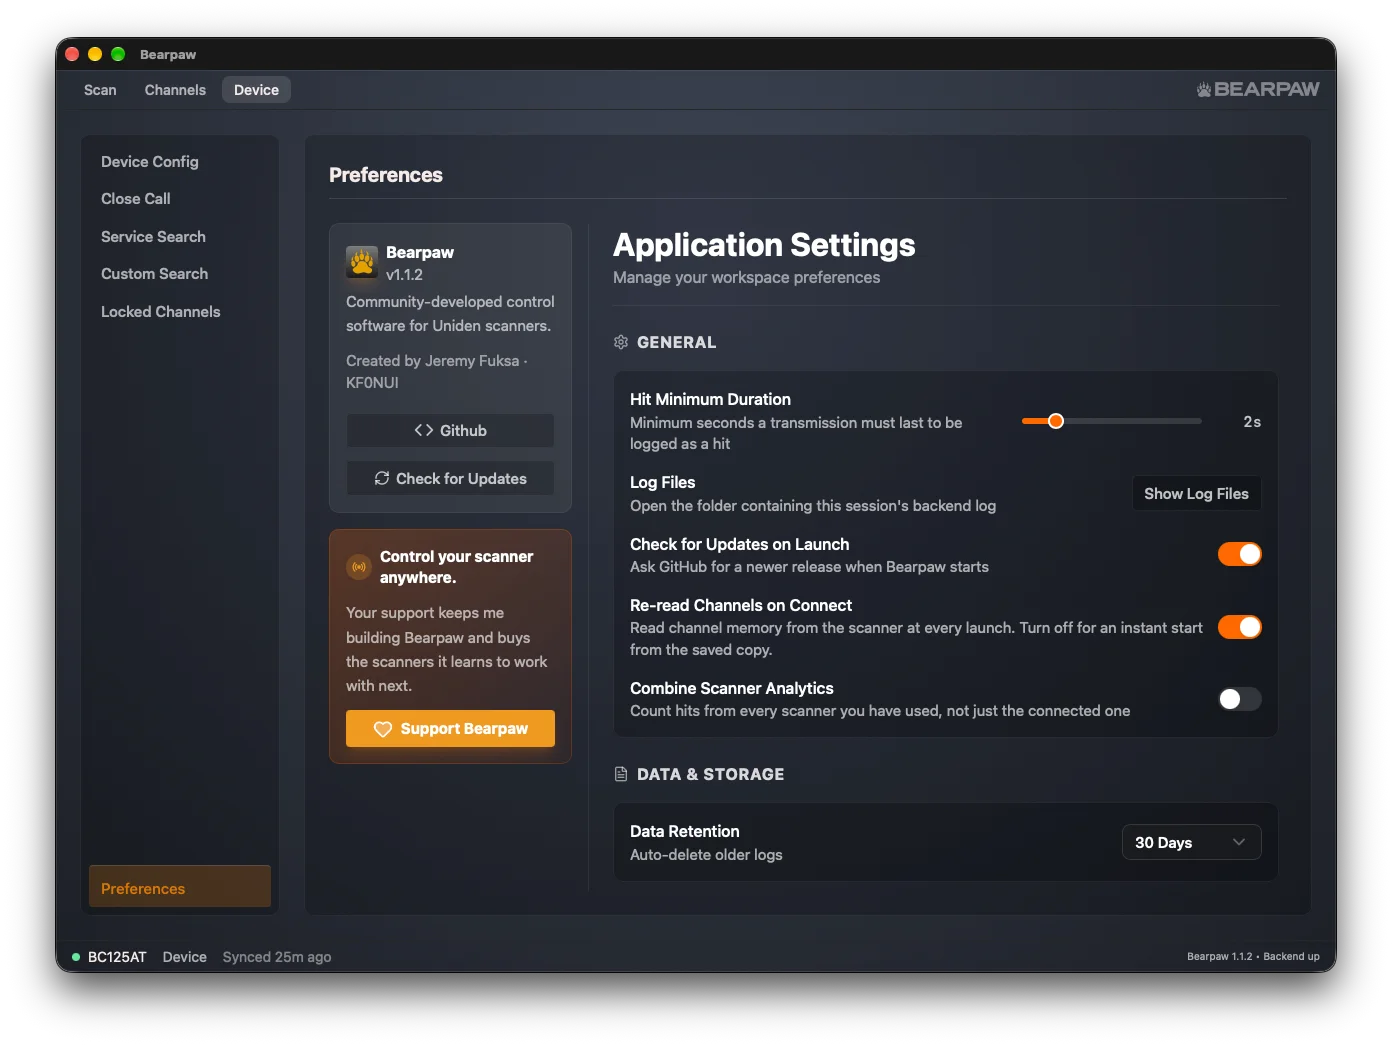
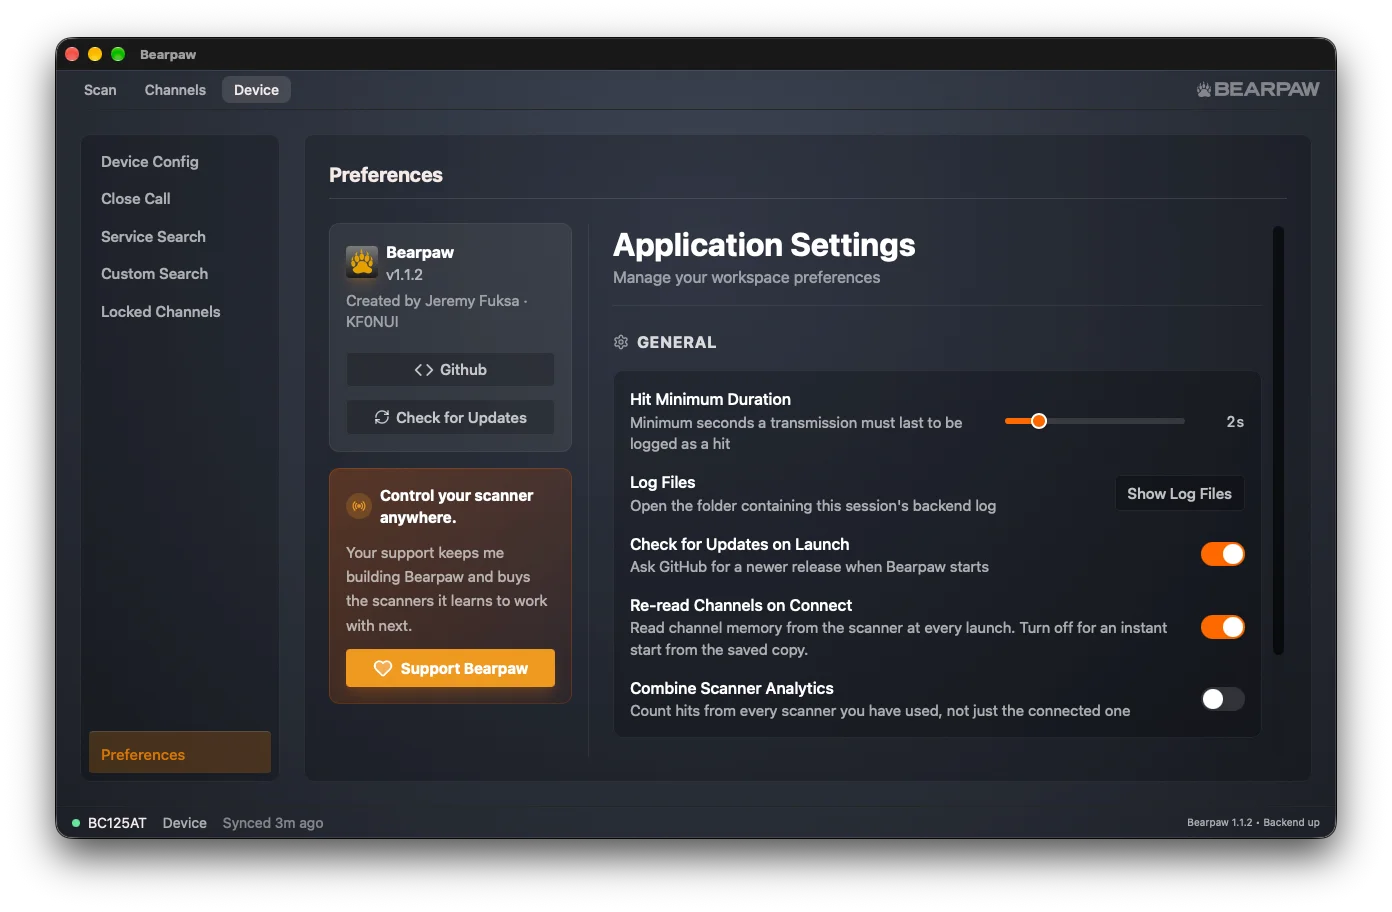
docs(site): reshoot Preferences at the standard 1280x800 window
With the About card's tagline gone (#765) the left column fits at the
default window size, so the screenshot matches the other guide images at
1392x912 again. The settings column scrolls at this size, so Data
Retention sits below the fold and is dropped from the alt text.

diff --git a/site/docs/preferences.html b/site/docs/preferences.html
@@ -68,7 +68,7 @@
         <figure class="docs-figure">
           <img
             src="assets/device-preferences.webp"
-            alt="The Preferences section: an About card with the app version, a GitHub link and a Check for Updates button; a support card headed Control your scanner anywhere, with a Support Bearpaw button; and Application Settings holding Hit Minimum Duration, a Show Log Files button, a Check for Updates on Launch toggle, a Re-read Channels on Connect toggle, a Combine Scanner Analytics toggle, and Data Retention."
+            alt="The Preferences section: an About card with the app version, a GitHub link and a Check for Updates button; a support card headed Control your scanner anywhere, with a Support Bearpaw button; and Application Settings holding Hit Minimum Duration, a Show Log Files button, a Check for Updates on Launch toggle, a Re-read Channels on Connect toggle, and a Combine Scanner Analytics toggle."
           />
           <figcaption>Preferences — the app's own settings.</figcaption>
         </figure>
